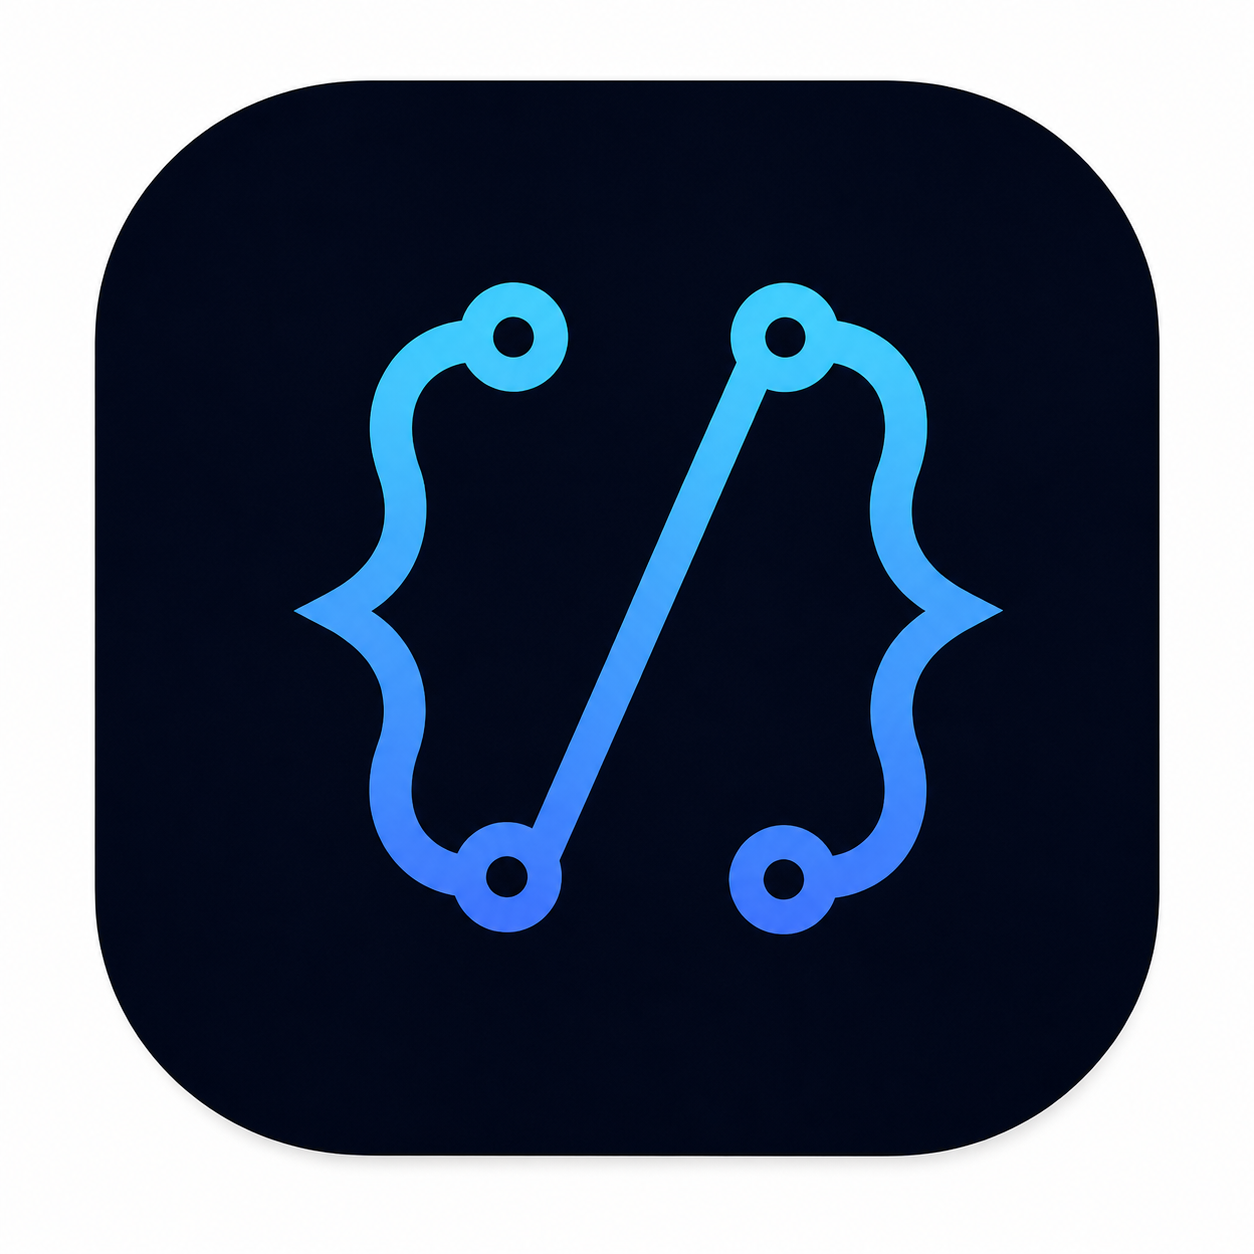
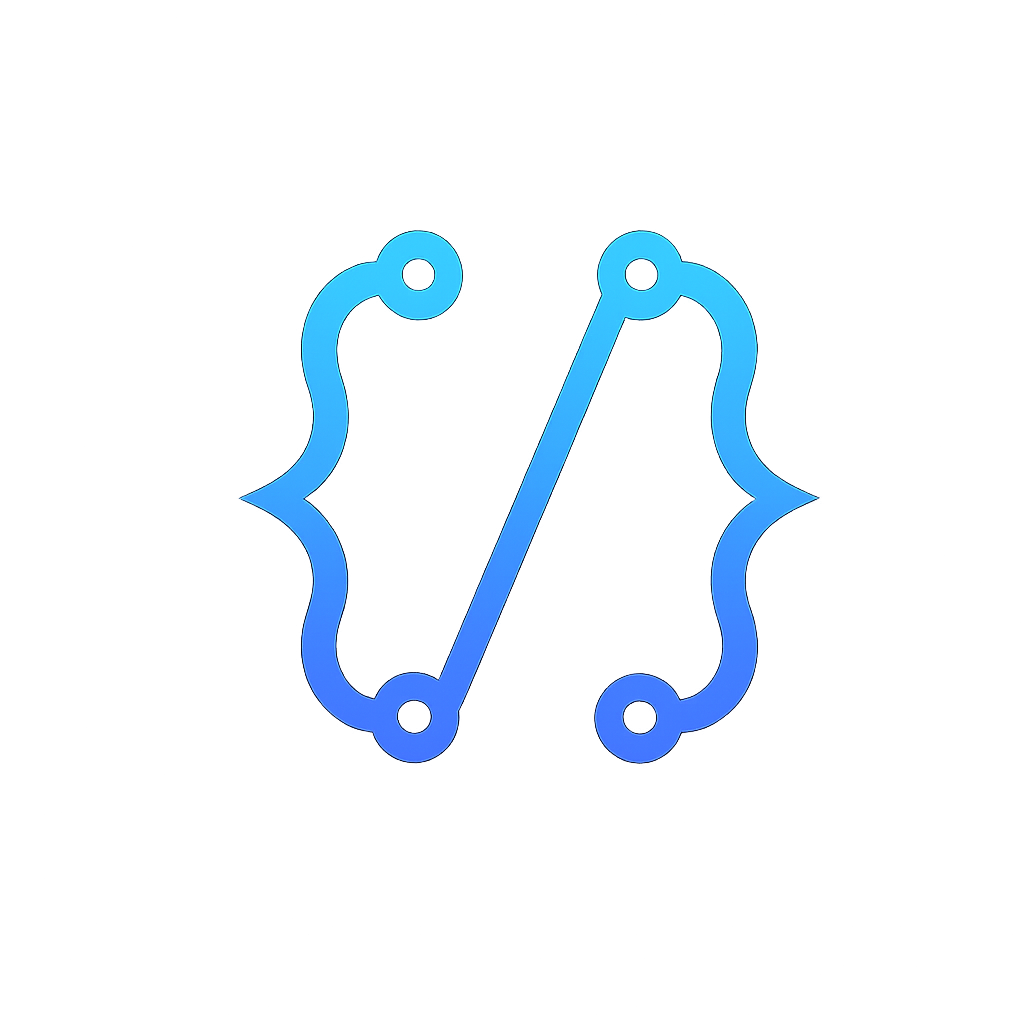
Added signup page

diff --git a/components/signupPage/MainContainer.tsx b/components/signupPage/MainContainer.tsx
@@ -1,0 +1,148 @@
+import Link from "next/link";
+import { GitHubIcon, SignupIcon, VerificationBadge } from "../assets/svg";
+
+const formFields = [
+  {
+    label: "Full Name",
+    type: "text",
+    placeholder: "John Doe",
+  },
+  {
+    label: "Work Email",
+    type: "email",
+    placeholder: "[email redacted]",
+  },
+  {
+    label: "Password",
+    type: "password",
+    placeholder: "• • • • • • • • • •",
+    helper: "Password must include symbols and digits",
+  },
+];
+
+const inputClass =
+  "flex h-11 w-full items-center rounded-lg border border-[#6B7280] bg-[rgba(13,17,23,0.5)] px-4 py-3 text-sm font-normal text-[#E0E2EA] placeholder-[rgba(139,145,157,0.5)] transition-colors focus:border-[#58A6FF] focus:outline-none";
+
+const labelClass =
+  "text-sm font-semibold leading-4 tracking-[0.55px] text-[#C0C7D4]";
+
+const linkClass = "text-[#A2C9FF] hover:underline";
+
+const MainContainer = () => {
+  return (
+    <div className="relative z-10 flex w-full max-w-120 flex-col items-center gap-8">
+      {/* Brand */}
+      <div className="flex flex-col items-center gap-2 self-stretch">
+        <div className="flex items-center gap-2 pb-2">
+          <SignupIcon />
+          <p className="text-2xl font-black leading-8 tracking-[-0.6px] text-[#E0E2EA]">
+            Codebase.ai
+          </p>
+        </div>
+
+        <p className="text-center text-[32px] font-bold leading-10 tracking-[-0.64px] text-[#E0E2EA]">
+          Create your developer account
+        </p>
+
+        <p className="pt-1 text-sm font-normal leading-5 text-[#C0C7D4]">
+          Precision intelligence for software architects.
+        </p>
+      </div>
+
+      {/* Auth Panel */}
+      <form className="flex w-full flex-col gap-6 rounded-xl border border-[#30363D] bg-[rgba(22,27,34,0.8)] p-8 shadow-2xl backdrop-blur-[6px]">
+        <button
+          type="button"
+          className="flex h-12 items-center justify-center gap-2 rounded-lg bg-[#24292F] transition-colors hover:bg-[#30363D]"
+        >
+          <GitHubIcon />
+          <span className="text-sm text-white">Sign up with GitHub</span>
+        </button>
+
+        <div className="flex w-full items-center gap-4">
+          <div className="h-px flex-1 bg-[#414752]" />
+          <p className="text-[11px] font-semibold tracking-[0.55px] text-[#8B919D]">
+            VIA EMAIL
+          </p>
+          <div className="h-px flex-1 bg-[#414752]" />
+        </div>
+
+        {/* Form Fields */}
+        <div className="flex flex-col gap-4">
+          {formFields.map(({ label, type, placeholder, helper }) => (
+            <div key={label} className="flex flex-col gap-1.5">
+              <label className={labelClass}>{label}</label>
+
+              <input
+                type={type}
+                placeholder={placeholder}
+                className={inputClass}
+              />
+
+              {helper && (
+                <div className="flex flex-col gap-2 pt-1">
+                  <div className="h-1 overflow-hidden rounded-sm bg-[#1C2025]" />
+                  <p className="text-xs text-[#8B919D]">{helper}</p>
+                </div>
+              )}
+            </div>
+          ))}
+
+          {/* Terms */}
+          <div className="flex items-start gap-2 pt-2">
+            <input
+              type="checkbox"
+              className="mt-1 h-4 w-4 shrink-0 rounded border border-[#414752] bg-[#181C21] accent-[#58A6FF]"
+            />
+
+            <p className="text-xs leading-[19.5px] text-[#C0C7D4]">
+              I agree to the{" "}
+              <Link href="#" className={linkClass}>
+                Terms of Service
+              </Link>{" "}
+              and acknowledge the{" "}
+              <Link href="#" className={linkClass}>
+                Privacy Policy
+              </Link>
+              .
+            </p>
+          </div>
+
+          {/* Submit */}
+          <button
+            type="submit"
+            className="group relative mt-2 flex h-12 w-full items-center justify-center overflow-hidden rounded-lg bg-linear-to-r from-[#58A6FF] to-[#8957E5] transition-opacity hover:opacity-90"
+          >
+            <div className="absolute inset-0 bg-white/20 opacity-0 transition-opacity group-hover:opacity-100" />
+
+            <span className="relative z-10 text-sm font-semibold text-[#00315C] shadow-sm">
+              Create Account
+            </span>
+          </button>
+        </div>
+      </form>
+
+      {/* Trust Badge */}
+      <div className="flex flex-col items-center gap-6 self-stretch">
+        <div className="flex items-center gap-2 rounded-full border border-[rgba(65,71,82,0.3)] bg-[rgba(39,42,48,0.5)] px-4 py-2 backdrop-blur-[2px]">
+          <VerificationBadge />
+          <p className="text-[13px] font-semibold tracking-[0.55px] text-[#E0E2EA]">
+            Join 10k+ architects mapping their legacy code.
+          </p>
+        </div>
+
+        <p className="text-sm text-[#C0C7D4]">
+          Already have an account?{" "}
+          <Link
+            href="/login"
+            className="font-medium text-[#A2C9FF] hover:underline"
+          >
+            Log In
+          </Link>
+        </p>
+      </div>
+    </div>
+  );
+};
+
+export default MainContainer;

diff --git a/components/assets/svg.tsx b/components/assets/svg.tsx
@@ -200,7 +200,9 @@ export function ExploreIcon() {
 export function TwitterIcon() {
   return (
     <>
-      <svg width="20" height="20" viewBox="0 0 24 24" fill="currentColor"><path d="M23.953 4.57a10 10 0 01-2.825.775 4.958 4.958 0 002.163-2.723c-.951.555-2.005.959-3.127 1.184a4.92 4.92 0 00-8.384 4.482C7.69 8.095 4.067 6.13 1.64 3.162a4.822 4.822 0 00-.666 2.475c0 1.71.87 3.213 2.188 4.096a4.904 4.904 0 01-2.228-.616v.06a4.923 4.923 0 003.946 4.827 4.996 4.996 0 01-2.212.085 4.936 4.936 0 004.604 3.417 9.867 9.867 0 01-6.102 2.105c-.39 0-.779-.023-1.17-.067a13.995 13.995 0 007.557 2.209c9.053 0 13.998-7.496 13.998-13.985 0-.21 0-.42-.015-.63A9.935 9.935 0 0024 4.59z"/></svg>
+      <svg width="20" height="20" viewBox="0 0 24 24" fill="currentColor">
+        <path d="M23.953 4.57a10 10 0 01-2.825.775 4.958 4.958 0 002.163-2.723c-.951.555-2.005.959-3.127 1.184a4.92 4.92 0 00-8.384 4.482C7.69 8.095 4.067 6.13 1.64 3.162a4.822 4.822 0 00-.666 2.475c0 1.71.87 3.213 2.188 4.096a4.904 4.904 0 01-2.228-.616v.06a4.923 4.923 0 003.946 4.827 4.996 4.996 0 01-2.212.085 4.936 4.936 0 004.604 3.417 9.867 9.867 0 01-6.102 2.105c-.39 0-.779-.023-1.17-.067a13.995 13.995 0 007.557 2.209c9.053 0 13.998-7.496 13.998-13.985 0-.21 0-.42-.015-.63A9.935 9.935 0 0024 4.59z" />
+      </svg>
     </>
   );
 }
@@ -208,7 +210,48 @@ export function TwitterIcon() {
 export function GitHubIcon() {
   return (
     <>
-      <svg width="20" height="20" viewBox="0 0 24 24" fill="currentColor"><path fillRule="evenodd" clipRule="evenodd" d="M12 2C6.477 2 2 6.484 2 12.017c0 4.425 2.865 8.18 6.839 9.504.5.092.682-.217.682-.483 0-.237-.008-.868-.013-1.703-2.782.605-3.369-1.343-3.369-1.343-.454-1.158-1.11-1.466-1.11-1.466-.908-.62.069-.608.069-.608 1.003.07 1.531 1.032 1.531 1.032.892 1.53 2.341 1.088 2.91.832.092-.647.35-1.088.636-1.338-2.22-.253-4.555-1.113-4.555-4.951 0-1.093.39-1.988 1.029-2.688-.103-.253-.446-1.272.098-2.65 0 0 .84-.27 2.75 1.026A9.564 9.564 0 0112 6.844c.85.004 1.705.115 2.504.337 1.909-1.296 2.747-1.027 2.747-1.027.546 1.379.202 2.398.1 2.651.64.7 1.028 1.595 1.028 2.688 0 3.848-2.339 4.695-4.566 4.943.359.309.678.92.678 1.855 0 1.338-.012 2.419-.012 2.747 0 .268.18.58.688.482A10.019 10.019 0 0022 12.017C22 6.484 17.522 2 12 2z"/></svg>
+      <svg width="20" height="20" viewBox="0 0 24 24" fill="currentColor">
+        <path
+          fillRule="evenodd"
+          clipRule="evenodd"
+          d="M12 2C6.477 2 2 6.484 2 12.017c0 4.425 2.865 8.18 6.839 9.504.5.092.682-.217.682-.483 0-.237-.008-.868-.013-1.703-2.782.605-3.369-1.343-3.369-1.343-.454-1.158-1.11-1.466-1.11-1.466-.908-.62.069-.608.069-.608 1.003.07 1.531 1.032 1.531 1.032.892 1.53 2.341 1.088 2.91.832.092-.647.35-1.088.636-1.338-2.22-.253-4.555-1.113-4.555-4.951 0-1.093.39-1.988 1.029-2.688-.103-.253-.446-1.272.098-2.65 0 0 .84-.27 2.75 1.026A9.564 9.564 0 0112 6.844c.85.004 1.705.115 2.504.337 1.909-1.296 2.747-1.027 2.747-1.027.546 1.379.202 2.398.1 2.651.64.7 1.028 1.595 1.028 2.688 0 3.848-2.339 4.695-4.566 4.943.359.309.678.92.678 1.855 0 1.338-.012 2.419-.012 2.747 0 .268.18.58.688.482A10.019 10.019 0 0022 12.017C22 6.484 17.522 2 12 2z"
+        />
+      </svg>
     </>
+  );
+}
+
+export function SignupIcon() {
+  return (
+    <svg
+      xmlns="http://www.w3.org/2000/svg"
+      width="32"
+      height="31"
+      viewBox="0 0 32 31"
+      fill="none"
+      className="w-8 h-8"
+    >
+      <path
+        d="M8 30.6667C6.88889 30.6667 5.94444 30.2778 5.16667 29.5C4.38889 28.7222 4 27.7778 4 26.6667C4 25.5556 4.38889 24.6111 5.16667 23.8333C5.94444 23.0556 6.88889 22.6667 8 22.6667C8.31111 22.6667 8.6 22.7 8.86667 22.7667C9.13333 22.8333 9.38889 22.9222 9.63333 23.0333L11.5333 20.6667C10.9111 19.9778 10.4778 19.2 10.2333 18.3333C9.98889 17.4667 9.93333 16.6 10.0667 15.7333L7.36667 14.8333C6.98889 15.3889 6.51111 15.8333 5.93333 16.1667C5.35556 16.5 4.71111 16.6667 4 16.6667C2.88889 16.6667 1.94444 16.2778 1.16667 15.5C0.388889 14.7222 0 13.7778 0 12.6667C0 11.5556 0.388889 10.6111 1.16667 9.83333C1.94444 9.05556 2.88889 8.66667 4 8.66667C5.11111 8.66667 6.05556 9.05556 6.83333 9.83333C7.61111 10.6111 8 11.5556 8 12.6667C8 12.7111 8 12.7556 8 12.8C8 12.8444 8 12.8889 8 12.9333L10.7 13.8667C11.1444 13.0667 11.7389 12.3889 12.4833 11.8333C13.2278 11.2778 14.0667 10.9222 15 10.7667V7.86667C14.1333 7.62222 13.4167 7.15 12.85 6.45C12.2833 5.75 12 4.93333 12 4C12 2.88889 12.3889 1.94444 13.1667 1.16667C13.9444 0.388889 14.8889 0 16 0C17.1111 0 18.0556 0.388889 18.8333 1.16667C19.6111 1.94444 20 2.88889 20 4C20 4.93333 19.7111 5.75 19.1333 6.45C18.5556 7.15 17.8444 7.62222 17 7.86667V10.7667C17.9333 10.9222 18.7722 11.2778 19.5167 11.8333C20.2611 12.3889 20.8556 13.0667 21.3 13.8667L24 12.9333C24 12.8889 24 12.8444 24 12.8C24 12.7556 24 12.7111 24 12.6667C24 11.5556 24.3889 10.6111 25.1667 9.83333C25.9444 9.05556 26.8889 8.66667 28 8.66667C29.1111 8.66667 30.0556 9.05556 30.8333 9.83333C31.6111 10.6111 32 11.5556 32 12.6667C32 13.7778 31.6111 14.7222 30.8333 15.5C30.0556 16.2778 29.1111 16.6667 28 16.6667C27.2889 16.6667 26.6389 16.5 26.05 16.1667C25.4611 15.8333 24.9889 15.3889 24.6333 14.8333L21.9333 15.7333C22.0667 16.6 22.0111 17.4611 21.7667 18.3167C21.5222 19.1722 21.0889 19.9556 20.4667 20.6667L22.3667 23C22.6111 22.8889 22.8667 22.8056 23.1333 22.75C23.4 22.6944 23.6889 22.6667 24 22.6667C25.1111 22.6667 26.0556 23.0556 26.8333 23.8333C27.6111 24.6111 28 25.5556 28 26.6667C28 27.7778 27.6111 28.7222 26.8333 29.5C26.0556 30.2778 25.1111 30.6667 24 30.6667C22.8889 30.6667 21.9444 30.2778 21.1667 29.5C20.3889 28.7222 20 27.7778 20 26.6667C20 26.2222 20.0722 25.7944 20.2167 25.3833C20.3611 24.9722 20.5556 24.6 20.8 24.2667L18.9 21.9C17.9889 22.4111 17.0167 22.6667 15.9833 22.6667C14.95 22.6667 13.9778 22.4111 13.0667 21.9L11.2 24.2667C11.4444 24.6 11.6389 24.9722 11.7833 25.3833C11.9278 25.7944 12 26.2222 12 26.6667C12 27.7778 11.6111 28.7222 10.8333 29.5C10.0556 30.2778 9.11111 30.6667 8 30.6667ZM4 14C4.37778 14 4.69444 13.8722 4.95 13.6167C5.20556 13.3611 5.33333 13.0444 5.33333 12.6667C5.33333 12.2889 5.20556 11.9722 4.95 11.7167C4.69444 11.4611 4.37778 11.3333 4 11.3333C3.62222 11.3333 3.30556 11.4611 3.05 11.7167C2.79444 11.9722 2.66667 12.2889 2.66667 12.6667C2.66667 13.0444 2.79444 13.3611 3.05 13.6167C3.30556 13.8722 3.62222 14 4 14ZM8 28C8.37778 28 8.69444 27.8722 8.95 27.6167C9.20555 27.3611 9.33333 27.0444 9.33333 26.6667C9.33333 26.2889 9.20555 25.9722 8.95 25.7167C8.69444 25.4611 8.37778 25.3333 8 25.3333C7.62222 25.3333 7.30556 25.4611 7.05 25.7167C6.79444 25.9722 6.66667 26.2889 6.66667 26.6667C6.66667 27.0444 6.79444 27.3611 7.05 27.6167C7.30556 27.8722 7.62222 28 8 28ZM16 5.33333C16.3778 5.33333 16.6944 5.20556 16.95 4.95C17.2056 4.69444 17.3333 4.37778 17.3333 4C17.3333 3.62222 17.2056 3.30556 16.95 3.05C16.6944 2.79444 16.3778 2.66667 16 2.66667C15.6222 2.66667 15.3056 2.79444 15.05 3.05C14.7944 3.30556 14.6667 3.62222 14.6667 4C14.6667 4.37778 14.7944 4.69444 15.05 4.95C15.3056 5.20556 15.6222 5.33333 16 5.33333ZM16 20C16.9333 20 17.7222 19.6778 18.3667 19.0333C19.0111 18.3889 19.3333 17.6 19.3333 16.6667C19.3333 15.7333 19.0111 14.9444 18.3667 14.3C17.7222 13.6556 16.9333 13.3333 16 13.3333C15.0667 13.3333 14.2778 13.6556 13.6333 14.3C12.9889 14.9444 12.6667 15.7333 12.6667 16.6667C12.6667 17.6 12.9889 18.3889 13.6333 19.0333C14.2778 19.6778 15.0667 20 16 20ZM24 28C24.3778 28 24.6944 27.8722 24.95 27.6167C25.2056 27.3611 25.3333 27.0444 25.3333 26.6667C25.3333 26.2889 25.2056 25.9722 24.95 25.7167C24.6944 25.4611 24.3778 25.3333 24 25.3333C23.6222 25.3333 23.3056 25.4611 23.05 25.7167C22.7944 25.9722 22.6667 26.2889 22.6667 26.6667C22.6667 27.0444 22.7944 27.3611 23.05 27.6167C23.3056 27.8722 23.6222 28 24 28ZM28 14C28.3778 14 28.6944 13.8722 28.95 13.6167C29.2056 13.3611 29.3333 13.0444 29.3333 12.6667C29.3333 12.2889 29.2056 11.9722 28.95 11.7167C28.6944 11.4611 28.3778 11.3333 28 11.3333C27.6222 11.3333 27.3056 11.4611 27.05 11.7167C26.7944 11.9722 26.6667 12.2889 26.6667 12.6667C26.6667 13.0444 26.7944 13.3611 27.05 13.6167C27.3056 13.8722 27.6222 14 28 14Z"
+        fill="#A2C9FF"
+      />
+    </svg>
+  );
+}
+
+export function VerificationBadge() {
+  return (
+    <svg
+      xmlns="http://www.w3.org/2000/svg"
+      width="13"
+      height="13"
+      viewBox="0 0 13 13"
+      fill="none"
+    >
+      <path
+        d="M4.43333 12.25L3.325 10.3833L1.225 9.91667L1.42917 7.75833L0 6.125L1.42917 4.49167L1.225 2.33333L3.325 1.86667L4.43333 0L6.41667 0.845833L8.4 0L9.50833 1.86667L11.6083 2.33333L11.4042 4.49167L12.8333 6.125L11.4042 7.75833L11.6083 9.91667L9.50833 10.3833L8.4 12.25L6.41667 11.4042L4.43333 12.25ZM5.80417 8.19583L9.1 4.9L8.28333 4.05417L5.80417 6.53333L4.55 5.30833L3.73333 6.125L5.80417 8.19583Z"
+        fill="#FFBA42"
+      />
+    </svg>
   );
 }

diff --git a/components/signupPage/Footer.tsx b/components/signupPage/Footer.tsx
@@ -1,0 +1,33 @@
+import Link from "next/link";
+
+const footerLinks = [
+  { label: "Documentation", href: "#" },
+  { label: "Privacy", href: "#" },
+  { label: "Status", href: "#" },
+];
+
+const Footer = () => {
+  return (
+    <footer className="relative z-10 mt-16 flex w-full justify-center">
+      <div className="flex w-full max-w-7xl items-center justify-between border-t border-[rgba(65,71,82,0.2)] p-6 opacity-60">
+        <p className="text-xs font-normal leading-4.5 text-[#C0C7D4]">
+          © 2026 AI Codebase Analyzer. Precise intelligence for architects.
+        </p>
+
+        <nav className="flex items-center gap-6">
+          {footerLinks.map(({ label, href }) => (
+            <Link
+              key={label}
+              href={href}
+              className="text-xs font-normal text-[#C0C7D4] transition-colors hover:text-[#E0E2EA]"
+            >
+              {label}
+            </Link>
+          ))}
+        </nav>
+      </div>
+    </footer>
+  );
+};
+
+export default Footer;

diff --git a/app/signup/page.tsx b/app/signup/page.tsx
@@ -1,7 +1,25 @@
-import React from "react";
+import Footer from "@/components/signupPage/Footer";
+import MainContainer from "@/components/signupPage/MainContainer";
 
 const SignUpPage = () => {
-  return <div>This is the signup page</div>;
+  return (
+    <section className="flex w-full min-h-screen relative overflow-hidden flex-col items-center bg-[#0D1117]">
+      {/* Background decoration */}
+      <div className="absolute w-[400px] h-[400px] -left-32 bottom-[-100px] rounded-full bg-[rgba(211,187,255,0.05)] blur-[60px] pointer-events-none"></div>
+      <div className="absolute w-[400px] h-[400px] -right-32 top-[-100px] rounded-full bg-[rgba(162,201,255,0.05)] blur-[60px] pointer-events-none"></div>
+      
+      {/* Gradient */}
+      <div className="absolute inset-0 opacity-40 bg-[radial-gradient(160.08%_128.06%_at_0%_0%,#161B22_0%,rgba(22,27,34,0)_50%),radial-gradient(160.08%_128.06%_at_100%_0%,#1C2025_0%,rgba(28,32,37,0)_50%),radial-gradient(80.04%_64.03%_at_50%_50%,#0D1117_0%,rgba(13,17,23,0)_100%)] pointer-events-none z-0"></div>
+      
+      {/* Content wrapper */}
+      <div className="flex-1 flex flex-col justify-center items-center w-full px-6 py-12 relative z-10">
+        <MainContainer />
+      </div>
+      
+      {/* Footer */}
+      <Footer />
+    </section>
+  );
 };
 
 export default SignUpPage;

diff --git a/app/login/page.tsx b/app/login/page.tsx
@@ -1,7 +1,22 @@
-import React from "react";
-
 const LoginPage = () => {
-  return <div>This is the login page</div>;
+  return (
+    <section className="flex w-full flex-col items-start bg-[#0D1117]">
+      <main className="flex min-h-256 px-4 py-41.5 flex-col justify-center items-center self-stretch">
+        <div className="flex w-[448px] max-w-[448px] p-8 flex-col items-start rounded-xl border border-[#414752] bg-[rgba(22,27,34,0.8)] backdrop-blur-md">
+          <div className="absolute w-[448px] h-[639px] rounded-xl bg-transparent shadow-2xl"></div>
+          <div className="flex max-w-[384px] flex-col items-start gap-8 self-stretch">
+            <div></div>
+            <div></div>
+            <div></div>
+            <div></div>
+            <div></div>
+          </div>
+        </div>
+
+        <div className="flex pt-8 flex-col items-start"></div>
+      </main>
+    </section>
+  );
 };
 
 export default LoginPage;

diff --git a/components/landing/CTA.tsx b/components/landing/CTA.tsx
@@ -1,3 +1,5 @@
+import Link from "next/link";
+
 export const CTA = () => {
   return (
     <section className="flex max-w-3xl pt-25 flex-col items-start gap-6">
@@ -13,12 +15,15 @@ export const CTA = () => {
         </p>
       </div>
       <div className="flex pt-4 flex-col items-center gap-4 self-stretch">
-        <button className="flex px-8 py-6 justify-center items-center rounded-2xl bg-[#58A6FF]">
+        <Link
+          href="/signup"
+          className="flex px-8 py-6 justify-center items-center rounded-2xl bg-[#58A6FF]"
+        >
           <span className="absolute w-[262.13px] h-19 rounded-2xl bg-transparent shadow-[0_20px_25px_-5px_rgba(162,201,255,0.2),0_8px_10px_-6px_rgba(162,201,255,0.2)]"></span>
           <p className="text-[#003A6B] text-center font-black text-[20px] leading-7">
             Start Your First Scan
           </p>
-        </button>
+        </Link>
         <div className="flex flex-col items-center self-stretch">
           <p className="text-[#8B919D] text-center text-base font-normal leading-6">
             Free for open source projects. Professional plans start at $19/mo.

diff --git a/components/landing/Footer.tsx b/components/landing/Footer.tsx
@@ -39,7 +39,7 @@ const Footer = () => {
     <footer className="mt-20 flex w-full flex-col items-center border-t border-white/20 px-6 py-12">
       <div className="flex w-full max-w-7xl flex-col items-center justify-between gap-8 md:flex-row md:items-start">
         {/* Brand */}
-        <div className="flex flex-col items-center gap-4 md:items-start">
+        <Link href="#" className="flex flex-col items-center gap-4 md:items-start">
           <h2 className="text-[24px] font-black leading-8 tracking-[-0.24px] text-[#E0E2EA]">
             Codebase.AI
           </h2>
@@ -47,7 +47,7 @@ const Footer = () => {
           <p className="max-w-sm text-center text-[15px] leading-6 text-[#C0C7D4] md:text-left">
             Empowering developers with AI-driven codebase analysis and insights.
           </p>
-        </div>
+        </Link>
 
         {/* Footer Links */}
         <div className="flex flex-col gap-8 md:flex-row md:gap-16">